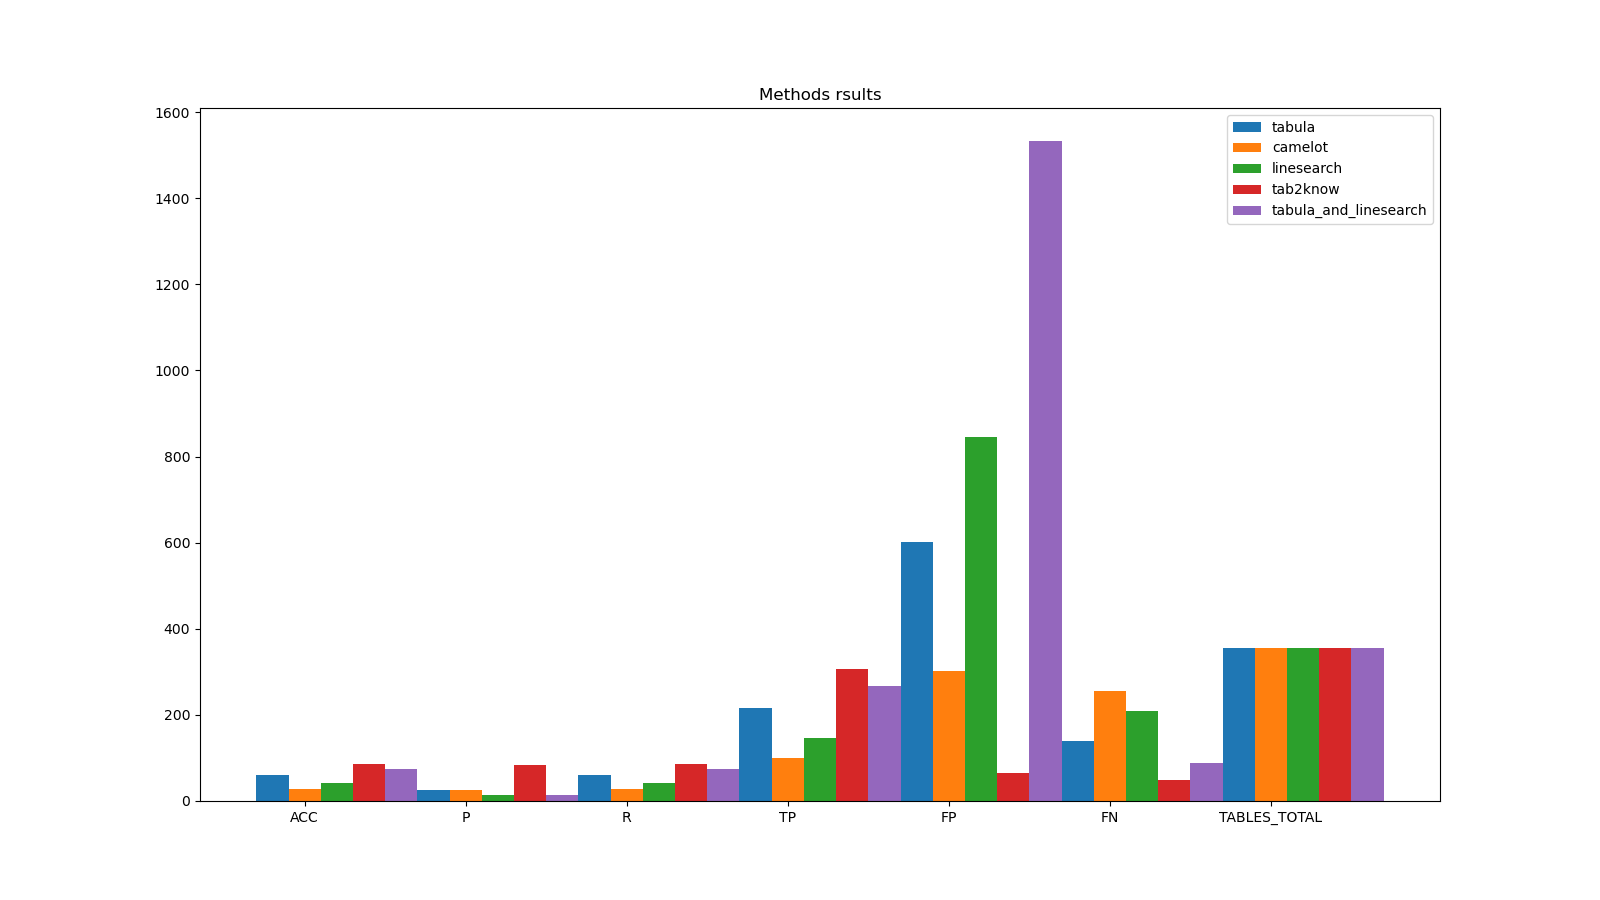
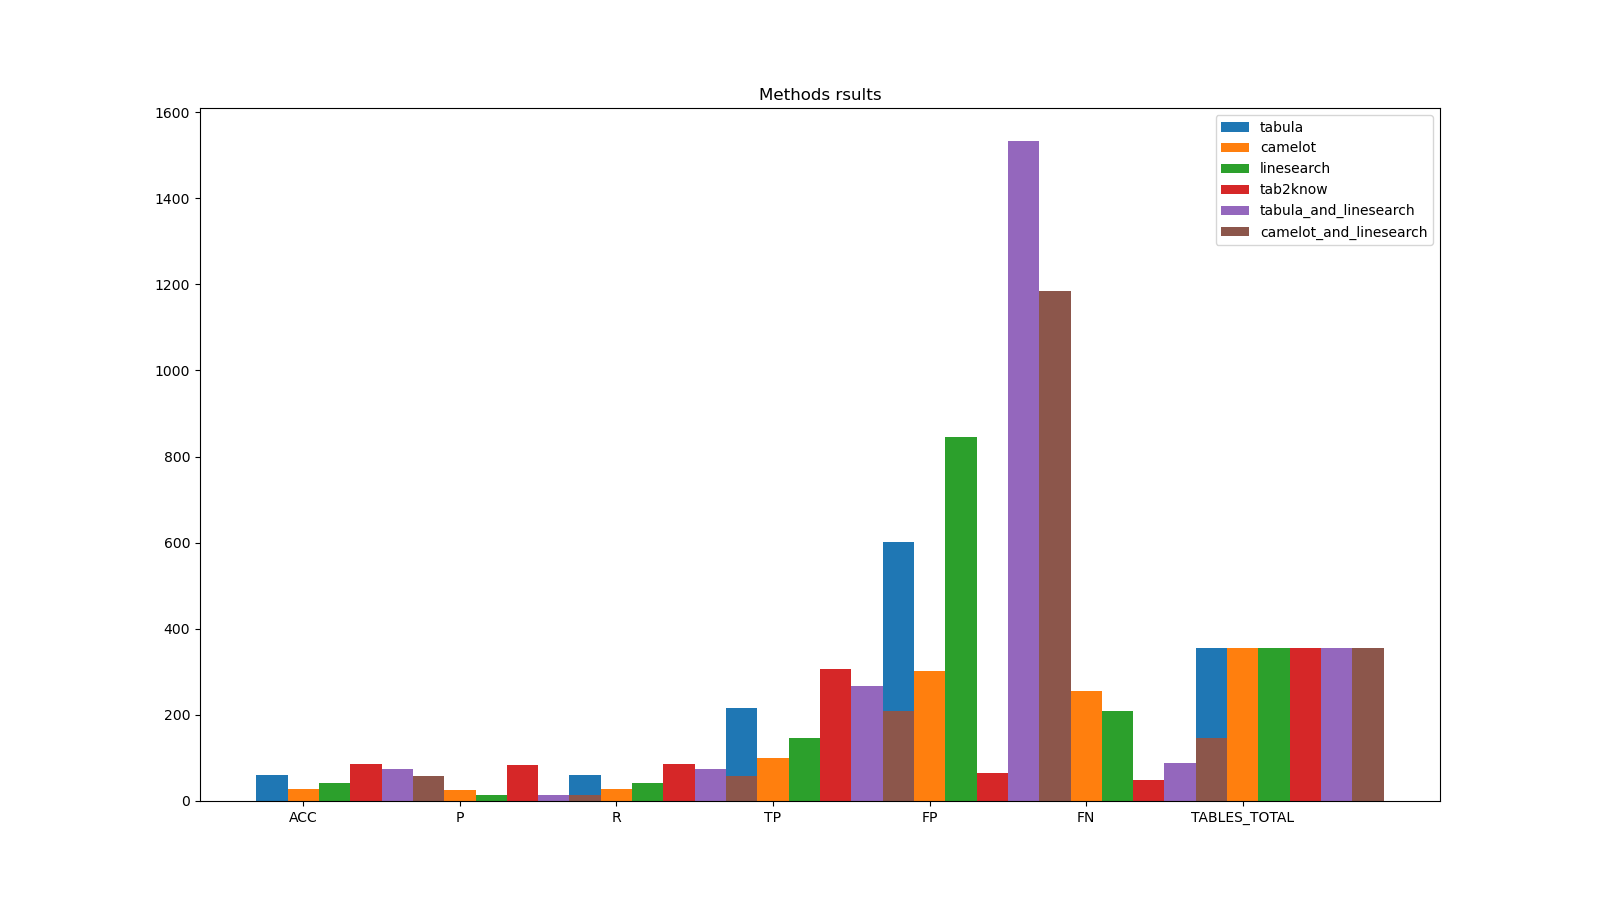
Added camelot_and_linesearch method with results

Changed region(s): [[0.3125, 0.1556, 0.875, 0.9333], [0.75, 0.1244, 0.9062, 0.28], [0.25, 0.84, 0.2812, 0.9022]]

diff --git a/core/extractor.py b/core/extractor.py
@@ -5,18 +5,10 @@ import logging
 
 
 def extraction_methods_names() -> list:
-    return ['tabula', 'camelot', 'linesearch', 'tabula_and_linesearch', 'tab2know']
+    return ['tabula', 'camelot', 'linesearch', 'tabula_and_linesearch', 'camelot_and_linesearch', 'tab2know']
 
 
 def method_from_name(name: str):
-
-    def tabula_and_linesearch(filename) -> list:
-        tabs1 = ex_tabula(filename)
-        tabs2 = ex_linesearch(filename)
-        # merge and remove duplicates
-        tabs = tabs1 + tabs2
-        return tabs
-
     if name == 'tabula':
         return ex_tabula
     elif name == 'camelot':
@@ -26,7 +18,9 @@ def method_from_name(name: str):
     elif name == 'linesearch':
         return ex_linesearch
     elif name == 'tabula_and_linesearch':
-        return extract_tables_joined
+        return lambda filename: merge_tables(ex_tabula(filename), ex_linesearch(filename))
+    elif name == 'camelot_and_linesearch':
+        return lambda filename: merge_tables(ex_camelot(filename), ex_linesearch(filename))
     else:
         raise Exception("Wrong method given: {}".format(name))
 
@@ -51,11 +45,8 @@ def find_matching_table(tab, tabs:list):
     return None
 
 
-
-def extract_tables_joined(filename: str):
+def merge_tables(tabs1, tabs2):
     tables = []
-    tabs1 = ex_tabula(filename)
-    tabs2 = ex_linesearch(filename)
     # merge and remove duplicates
     for tab_ls in tabs2:
         table_found = find_matching_table(tab_ls, tabs1)
